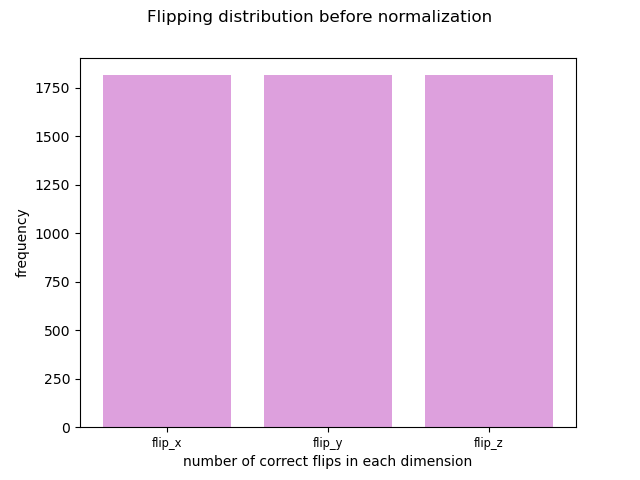
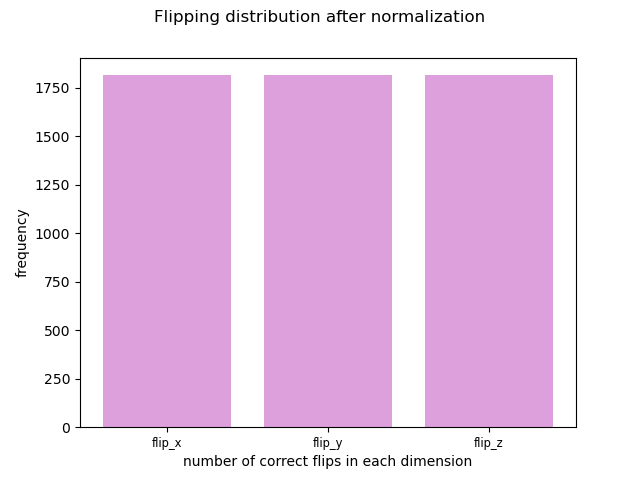
flipping graph label fixed

Changed region(s): [[0.2188, 0.0, 0.7812, 0.0625]]

diff --git a/normalised_hist.py b/normalised_hist.py
@@ -94,7 +94,7 @@ plt.show()
 
 #flipping distribution after normalization
 csv_name ="./csv/Princeton_remeshed_normalized_flipping.csv"
-plt_name = "Flipping distribution before normalization"
+plt_name = "Flipping distribution after normalization"
 plt.figure(2)
 df = pd.read_csv(csv_name)
 cx = df['flip_x'].value_counts()[1]
